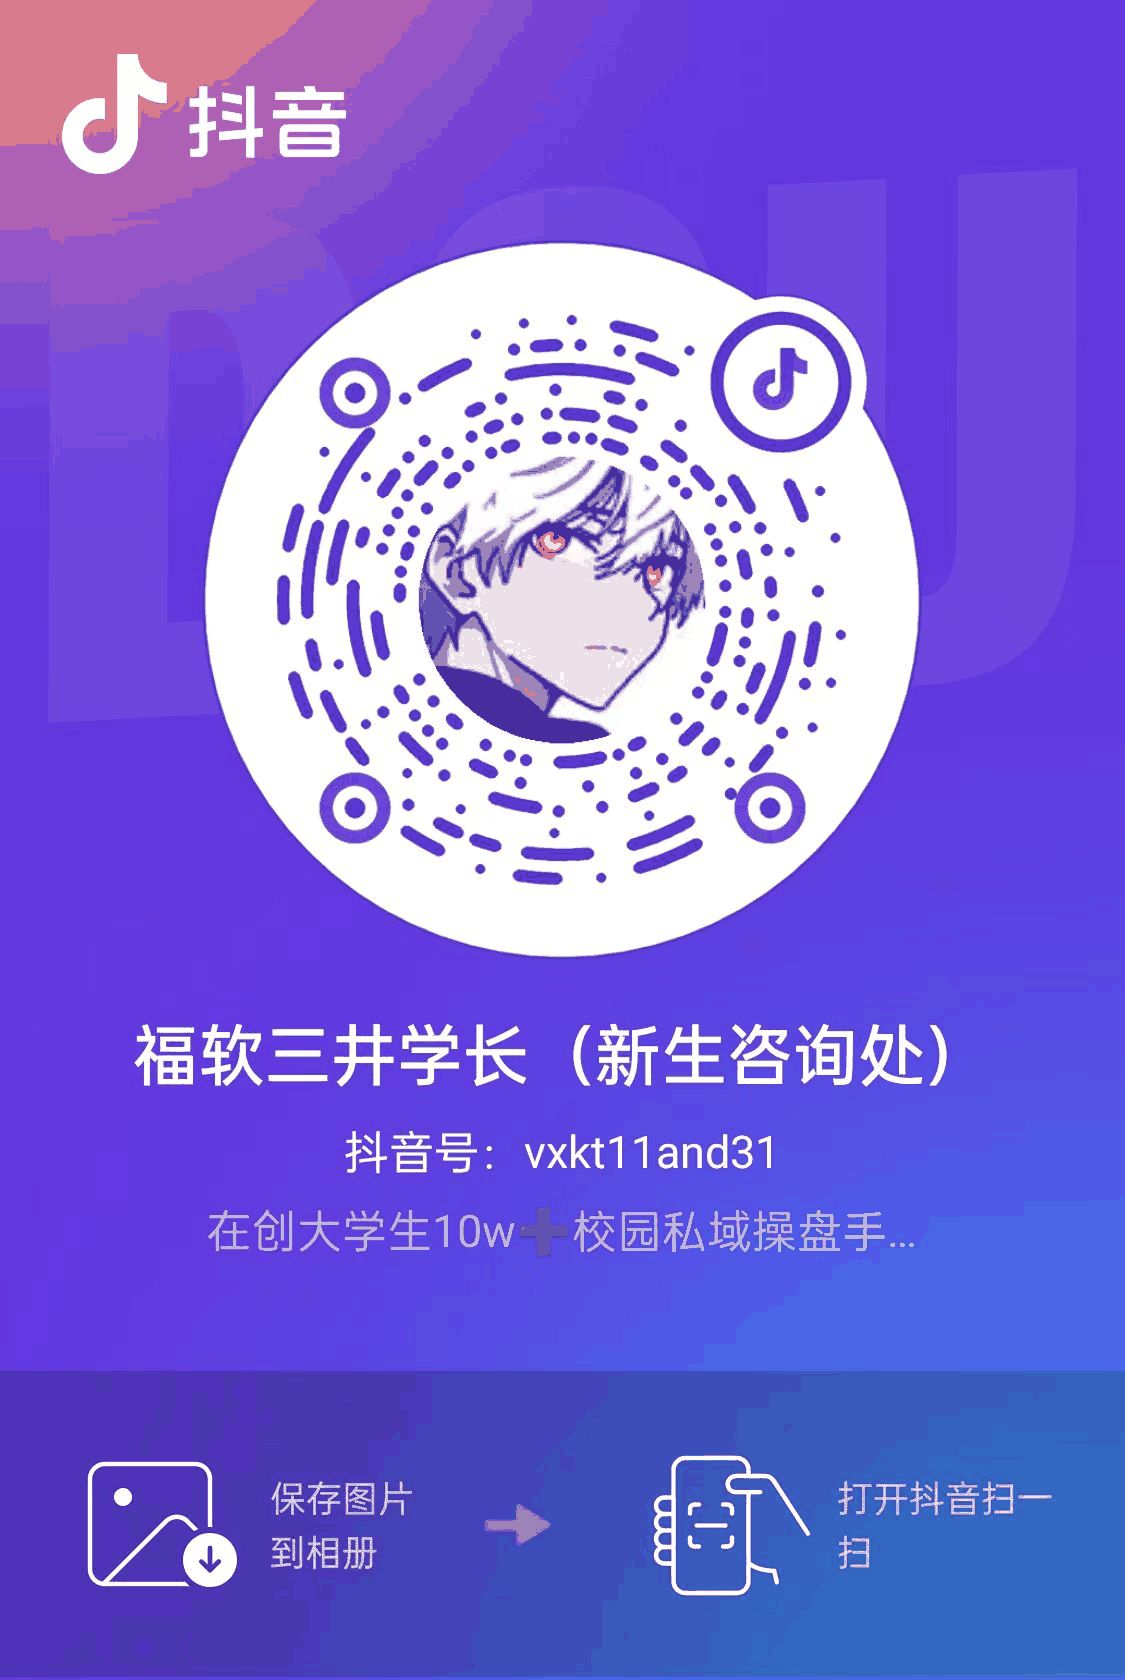
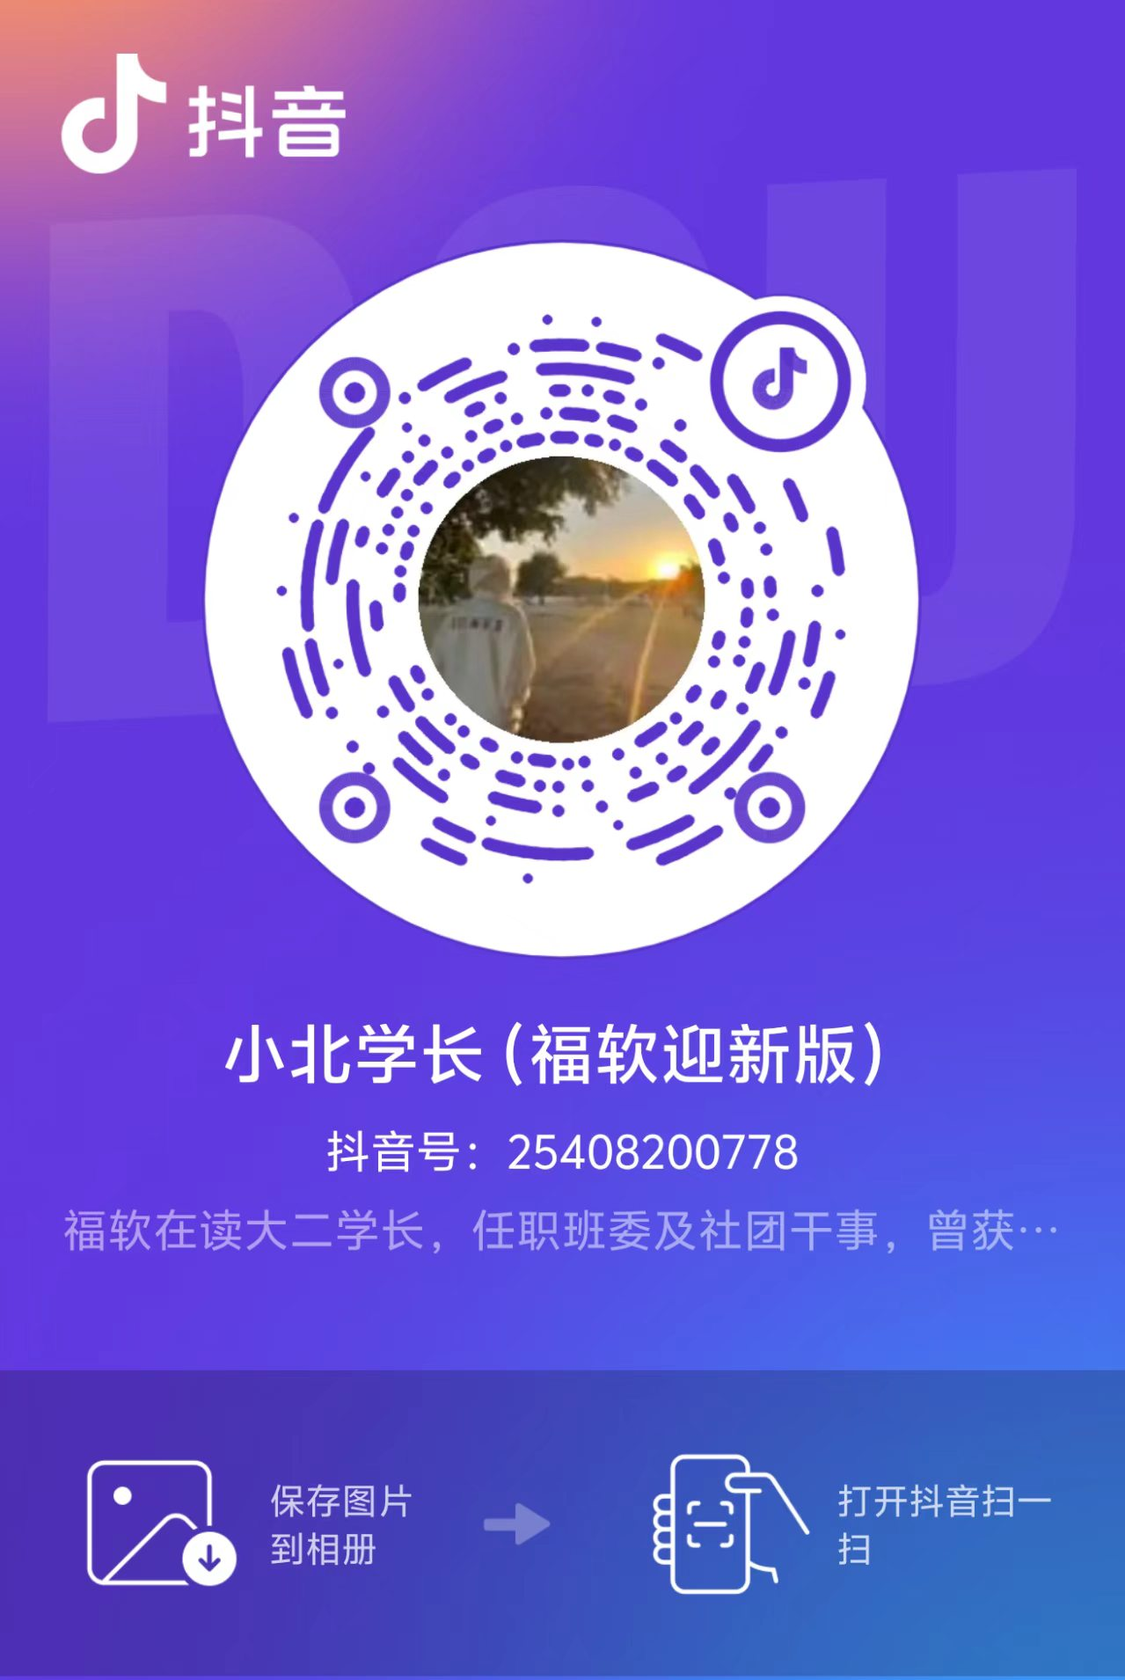
关注区: 新抖音码为主 + 旧码作参考角标; 移除待补充字段

diff --git a/about.html b/about.html
@@ -88,7 +88,7 @@
             <p class="band__deck">报到提醒、宿舍避坑和开学清单的更新都在抖音和微信上发。扫码就能找到。</p>
           </div>
 
-          <div class="follow">
+          <div class="follow follow--with-ref">
             <figure class="plate">
               <img src="images/douyin-qr.webp" width="1125" height="1680" alt="小北学长抖音二维码：扫码关注小北学长（福软迎新版）" loading="lazy" decoding="async">
               <figcaption class="plate__cap">
@@ -97,24 +97,23 @@
                 <small>扫码关注，看报到提醒和宿舍避坑更新。</small>
               </figcaption>
             </figure>
-            <figure class="plate">
-              <img src="images/wechat-qr.webp" width="820" height="1220" alt="小北学长微信二维码：扫码添加小北学长" loading="lazy" decoding="async">
-              <figcaption class="plate__cap">
-                <b>微信 · 小北学长</b>
-                <span>福建 南平</span>
-                <small>扫码添加，问新生常见问题。</small>
-              </figcaption>
-            </figure>
+            <div class="follow__ref" role="group" aria-label="其他二维码（参考）">
+              <figure class="plate plate--ref">
+                <img src="images/wechat-qr.webp" width="820" height="1220" alt="小北学长微信二维码（参考）" loading="lazy" decoding="async">
+                <figcaption class="plate__cap"><b>微信</b><small>参考</small></figcaption>
+              </figure>
+              <figure class="plate plate--ref">
+                <img src="images/qr-ref-douyin.webp" width="321" height="480" alt="抖音二维码（旧版，仅供参考）" loading="lazy" decoding="async">
+                <figcaption class="plate__cap"><b>旧抖音码</b><small>参考</small></figcaption>
+              </figure>
+            </div>
           </div>
 
           <dl class="billing billing--onpaper">
             <div class="billing__row"><dt>抖音</dt><dd>小北学长（福软迎新版）<em> · 25408200778</em></dd></div>
             <div class="billing__row"><dt>微信</dt><dd>小北学长<em> · 福建 南平</em></dd></div>
-            <div class="billing__row"><dt>公众号</dt><dd><em>名称待补充</em></dd></div>
-            <div class="billing__row"><dt>邮箱</dt><dd><em>待补充</em></dd></div>
-            <div class="billing__row"><dt>学校官网 / 招生入口</dt><dd><em>链接待补充，不代替官方渠道</em></dd></div>
           </dl>
-          <p class="band__note band__note--after">标记「待补充」的字段目前没有官方确认的信息，所以留空，不写猜测的链接和号码。</p>
+          <p class="band__note band__note--after">关注入口只有抖音和微信两个，其余联系方式暂不提供，不写猜测的链接和号码。</p>
         </div>
       </section>
 
@@ -157,7 +156,7 @@
                 <li>页面数据仅用于本地浏览体验。</li>
                 <li>AI 问询为前端本地关键词问答，不上传、不保存你的输入。</li>
                 <li>装包清单的勾选状态保存在你本机的 localStorage 里，只用于下次打开时接着看，清缓存即消失。</li>
-                <li>公众号、邮箱等联系方式目前没有确认信息，页面标注为「待补充」。</li>
+                <li>除抖音与微信外，站内不提供其他联系方式。</li>
                 <li>后续如扩展为微信小程序，将按平台规范补充隐私政策。</li>
               </ul>
             </article>
@@ -185,7 +184,7 @@
           </nav>
           <div>
             <h3 class="label label--night">关注小北学长</h3>
-            <div class="follow follow--spaced">
+            <div class="follow follow--spaced follow--with-ref">
               <figure class="plate plate--night">
                 <img src="images/douyin-qr.webp" width="1125" height="1680" alt="小北学长抖音二维码" loading="lazy" decoding="async">
                 <figcaption class="plate__cap">
@@ -193,13 +192,16 @@
                   <span>小北学长（福软迎新版）</span>
                 </figcaption>
               </figure>
-              <figure class="plate plate--night">
-                <img src="images/wechat-qr.webp" width="820" height="1220" alt="小北学长微信二维码" loading="lazy" decoding="async">
-                <figcaption class="plate__cap">
-                  <b>微信 · 小北学长</b>
-                  <span>福建 南平</span>
-                </figcaption>
-              </figure>
+              <div class="follow__ref" role="group" aria-label="其他二维码（参考）">
+                <figure class="plate plate--ref">
+                  <img src="images/wechat-qr.webp" width="820" height="1220" alt="小北学长微信二维码（参考）" loading="lazy" decoding="async">
+                  <figcaption class="plate__cap"><b>微信</b><small>参考</small></figcaption>
+                </figure>
+                <figure class="plate plate--ref">
+                  <img src="images/qr-ref-douyin.webp" width="321" height="480" alt="抖音二维码（旧版，仅供参考）" loading="lazy" decoding="async">
+                  <figcaption class="plate__cap"><b>旧抖音码</b><small>参考</small></figcaption>
+                </figure>
+              </div>
             </div>
           </div>
         </div>
@@ -207,8 +209,6 @@
         <dl class="billing">
           <div class="billing__row"><dt>抖音</dt><dd>小北学长（福软迎新版）<em> · 25408200778</em></dd></div>
           <div class="billing__row"><dt>微信</dt><dd>小北学长<em> · 福建 南平</em></dd></div>
-          <div class="billing__row"><dt>公众号</dt><dd><em>名称待补充</em></dd></div>
-          <div class="billing__row"><dt>邮箱</dt><dd><em>待补充</em></dd></div>
           <div class="billing__row"><dt>声明</dt><dd>本站内容由「小北学长」整理，仅供参考<em> · 涉及报到、收费、住宿、军训等政策信息，以学校官方通知为准</em></dd></div>
         </dl>
 

diff --git a/ai-consult.html b/ai-consult.html
@@ -382,7 +382,7 @@
             <h2 id="follow-title">关注小北学长</h2>
             <p class="band__deck">问题库会继续补。报到提醒、宿舍避坑和开学清单的更新，都在抖音和微信上发。</p>
           </div>
-          <div class="follow">
+          <div class="follow follow--with-ref">
             <figure class="plate">
               <img src="images/douyin-qr.webp" width="1125" height="1680" alt="小北学长抖音二维码：扫码关注小北学长（福软迎新版）" loading="lazy" decoding="async">
               <figcaption class="plate__cap">
@@ -391,14 +391,16 @@
                 <small>扫码关注，看报到提醒和宿舍避坑更新。</small>
               </figcaption>
             </figure>
-            <figure class="plate">
-              <img src="images/wechat-qr.webp" width="820" height="1220" alt="小北学长微信二维码：扫码添加小北学长" loading="lazy" decoding="async">
-              <figcaption class="plate__cap">
-                <b>微信 · 小北学长</b>
-                <span>福建 南平</span>
-                <small>扫码添加，问新生常见问题。</small>
-              </figcaption>
-            </figure>
+            <div class="follow__ref" role="group" aria-label="其他二维码（参考）">
+              <figure class="plate plate--ref">
+                <img src="images/wechat-qr.webp" width="820" height="1220" alt="小北学长微信二维码（参考）" loading="lazy" decoding="async">
+                <figcaption class="plate__cap"><b>微信</b><small>参考</small></figcaption>
+              </figure>
+              <figure class="plate plate--ref">
+                <img src="images/qr-ref-douyin.webp" width="321" height="480" alt="抖音二维码（旧版，仅供参考）" loading="lazy" decoding="async">
+                <figcaption class="plate__cap"><b>旧抖音码</b><small>参考</small></figcaption>
+              </figure>
+            </div>
           </div>
         </div>
       </section>
@@ -423,7 +425,7 @@
           </nav>
           <div>
             <h3 class="label label--night">关注小北学长</h3>
-            <div class="follow follow--spaced">
+            <div class="follow follow--spaced follow--with-ref">
               <figure class="plate plate--night">
                 <img src="images/douyin-qr.webp" width="1125" height="1680" alt="小北学长抖音二维码" loading="lazy" decoding="async">
                 <figcaption class="plate__cap">
@@ -431,13 +433,16 @@
                   <span>小北学长（福软迎新版）</span>
                 </figcaption>
               </figure>
-              <figure class="plate plate--night">
-                <img src="images/wechat-qr.webp" width="820" height="1220" alt="小北学长微信二维码" loading="lazy" decoding="async">
-                <figcaption class="plate__cap">
-                  <b>微信 · 小北学长</b>
-                  <span>福建 南平</span>
-                </figcaption>
-              </figure>
+              <div class="follow__ref" role="group" aria-label="其他二维码（参考）">
+                <figure class="plate plate--ref">
+                  <img src="images/wechat-qr.webp" width="820" height="1220" alt="小北学长微信二维码（参考）" loading="lazy" decoding="async">
+                  <figcaption class="plate__cap"><b>微信</b><small>参考</small></figcaption>
+                </figure>
+                <figure class="plate plate--ref">
+                  <img src="images/qr-ref-douyin.webp" width="321" height="480" alt="抖音二维码（旧版，仅供参考）" loading="lazy" decoding="async">
+                  <figcaption class="plate__cap"><b>旧抖音码</b><small>参考</small></figcaption>
+                </figure>
+              </div>
             </div>
           </div>
         </div>
@@ -445,8 +450,6 @@
         <dl class="billing">
           <div class="billing__row"><dt>抖音</dt><dd>小北学长（福软迎新版）<em> · 25408200778</em></dd></div>
           <div class="billing__row"><dt>微信</dt><dd>小北学长<em> · 福建 南平</em></dd></div>
-          <div class="billing__row"><dt>公众号</dt><dd><em>名称待补充</em></dd></div>
-          <div class="billing__row"><dt>邮箱</dt><dd><em>待补充</em></dd></div>
           <div class="billing__row"><dt>声明</dt><dd>本站内容由「小北学长」整理，仅供参考<em> · 涉及报到、收费、住宿、军训等政策信息，以学校官方通知为准</em></dd></div>
         </dl>
 

diff --git a/category.html b/category.html
@@ -496,7 +496,7 @@
           </nav>
           <div id="follow">
             <h3 class="label label--night">关注小北学长</h3>
-            <div class="follow follow--spaced">
+            <div class="follow follow--spaced follow--with-ref">
               <figure class="plate plate--night">
                 <img src="images/douyin-qr.webp" width="1125" height="1680" alt="小北学长抖音二维码：扫码关注小北学长（福软迎新版）" loading="lazy" decoding="async">
                 <figcaption class="plate__cap">
@@ -505,14 +505,16 @@
                   <small>扫码关注，看报到提醒和宿舍避坑更新。</small>
                 </figcaption>
               </figure>
-              <figure class="plate plate--night">
-                <img src="images/wechat-qr.webp" width="820" height="1220" alt="小北学长微信二维码：扫码添加小北学长" loading="lazy" decoding="async">
-                <figcaption class="plate__cap">
-                  <b>微信 · 小北学长</b>
-                  <span>福建 南平</span>
-                  <small>扫码添加，问新生常见问题。</small>
-                </figcaption>
-              </figure>
+              <div class="follow__ref" role="group" aria-label="其他二维码（参考）">
+                <figure class="plate plate--ref">
+                  <img src="images/wechat-qr.webp" width="820" height="1220" alt="小北学长微信二维码（参考）" loading="lazy" decoding="async">
+                  <figcaption class="plate__cap"><b>微信</b><small>参考</small></figcaption>
+                </figure>
+                <figure class="plate plate--ref">
+                  <img src="images/qr-ref-douyin.webp" width="321" height="480" alt="抖音二维码（旧版，仅供参考）" loading="lazy" decoding="async">
+                  <figcaption class="plate__cap"><b>旧抖音码</b><small>参考</small></figcaption>
+                </figure>
+              </div>
             </div>
           </div>
         </div>
@@ -520,8 +522,6 @@
         <dl class="billing">
           <div class="billing__row"><dt>抖音</dt><dd>小北学长（福软迎新版）<em> · 25408200778</em></dd></div>
           <div class="billing__row"><dt>微信</dt><dd>小北学长<em> · 福建 南平</em></dd></div>
-          <div class="billing__row"><dt>公众号</dt><dd><em>名称待补充</em></dd></div>
-          <div class="billing__row"><dt>邮箱</dt><dd><em>待补充</em></dd></div>
           <div class="billing__row"><dt>声明</dt><dd>本站内容由「小北学长」整理，仅供参考<em> · 涉及报到、收费、住宿、军训等政策信息，以学校官方通知为准</em></dd></div>
         </dl>
 

diff --git a/index.html b/index.html
@@ -345,7 +345,7 @@
           </nav>
           <div id="follow">
             <h3 class="label label--night">关注小北学长</h3>
-            <div class="follow follow--spaced">
+            <div class="follow follow--spaced follow--with-ref">
               <figure class="plate plate--night">
                 <img src="images/douyin-qr.webp" width="1125" height="1680" alt="小北学长抖音二维码：扫码关注小北学长（福软迎新版）" loading="lazy" decoding="async">
                 <figcaption class="plate__cap">
@@ -354,14 +354,16 @@
                   <small>扫码关注，看报到提醒和宿舍避坑更新。</small>
                 </figcaption>
               </figure>
-              <figure class="plate plate--night">
-                <img src="images/wechat-qr.webp" width="820" height="1220" alt="小北学长微信二维码：扫码添加小北学长" loading="lazy" decoding="async">
-                <figcaption class="plate__cap">
-                  <b>微信 · 小北学长</b>
-                  <span>福建 南平</span>
-                  <small>扫码添加，问新生常见问题。</small>
-                </figcaption>
-              </figure>
+              <div class="follow__ref" role="group" aria-label="其他二维码（参考）">
+                <figure class="plate plate--ref">
+                  <img src="images/wechat-qr.webp" width="820" height="1220" alt="小北学长微信二维码（参考）" loading="lazy" decoding="async">
+                  <figcaption class="plate__cap"><b>微信</b><small>参考</small></figcaption>
+                </figure>
+                <figure class="plate plate--ref">
+                  <img src="images/qr-ref-douyin.webp" width="321" height="480" alt="抖音二维码（旧版，仅供参考）" loading="lazy" decoding="async">
+                  <figcaption class="plate__cap"><b>旧抖音码</b><small>参考</small></figcaption>
+                </figure>
+              </div>
             </div>
           </div>
         </div>
@@ -369,8 +371,6 @@
         <dl class="billing">
           <div class="billing__row"><dt>抖音</dt><dd>小北学长（福软迎新版）<em> · 25408200778</em></dd></div>
           <div class="billing__row"><dt>微信</dt><dd>小北学长<em> · 福建 南平</em></dd></div>
-          <div class="billing__row"><dt>公众号</dt><dd><em>名称待补充</em></dd></div>
-          <div class="billing__row"><dt>邮箱</dt><dd><em>待补充</em></dd></div>
           <div class="billing__row"><dt>声明</dt><dd>本站内容由「小北学长」整理，仅供参考<em> · 涉及报到、收费、住宿、军训等政策信息，以学校官方通知为准</em></dd></div>
         </dl>
 

diff --git a/css/style.css b/css/style.css
@@ -1713,3 +1713,38 @@ body { caret-color: var(--signal-depart); }
   .station__body { display: block !important; }
   a[href^="http"]::after { content: " (" attr(href) ")"; font-size: 0.75em; }
 }
+
+/* 关注区: 主码 + 角落参考小图(小北学长本人的码为主, 其余作参考) */
+.follow--with-ref {
+  grid-template-columns: minmax(11rem, 15rem) minmax(0, 1fr);
+  align-items: start;
+}
+
+.follow__ref {
+  display: flex;
+  flex-wrap: wrap;
+  gap: 0.625rem;
+  align-items: flex-start;
+  justify-content: flex-end;
+  align-self: end;
+}
+
+.plate--ref {
+  padding: 0.375rem;
+  max-width: 7.5rem;
+  background: transparent;
+  border-color: transparent;
+  opacity: 0.72;
+  transition: opacity 160ms ease;
+}
+
+.plate--ref:hover,
+.plate--ref:focus-within { opacity: 1; }
+
+.plate--ref .plate__cap b { font-size: var(--step-micro); }
+.plate--ref .plate__cap small { font-size: 0.6875rem; color: var(--ink-faint); }
+
+@media (max-width: 34rem) {
+  .follow--with-ref { grid-template-columns: 1fr; }
+  .follow__ref { justify-content: flex-start; }
+}
